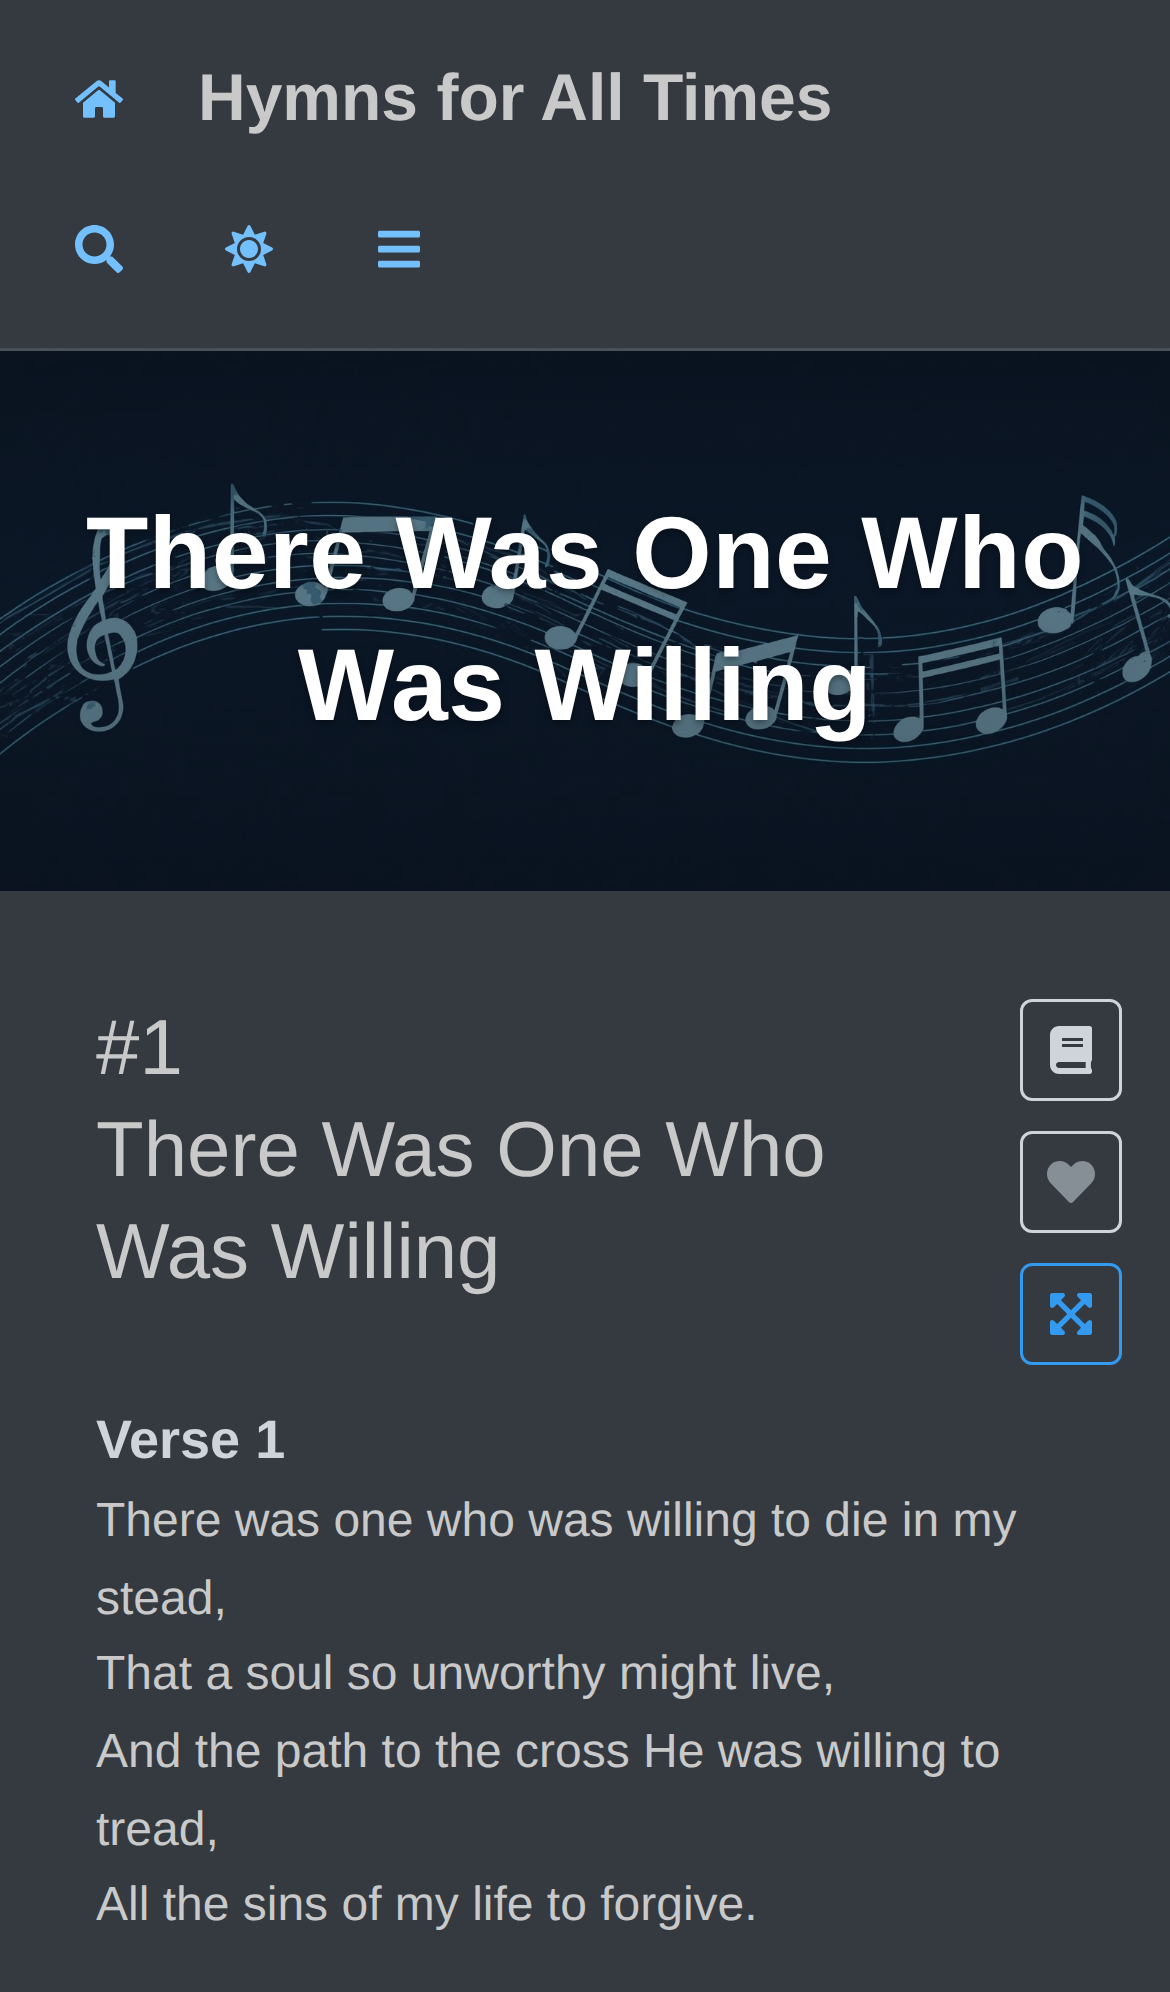
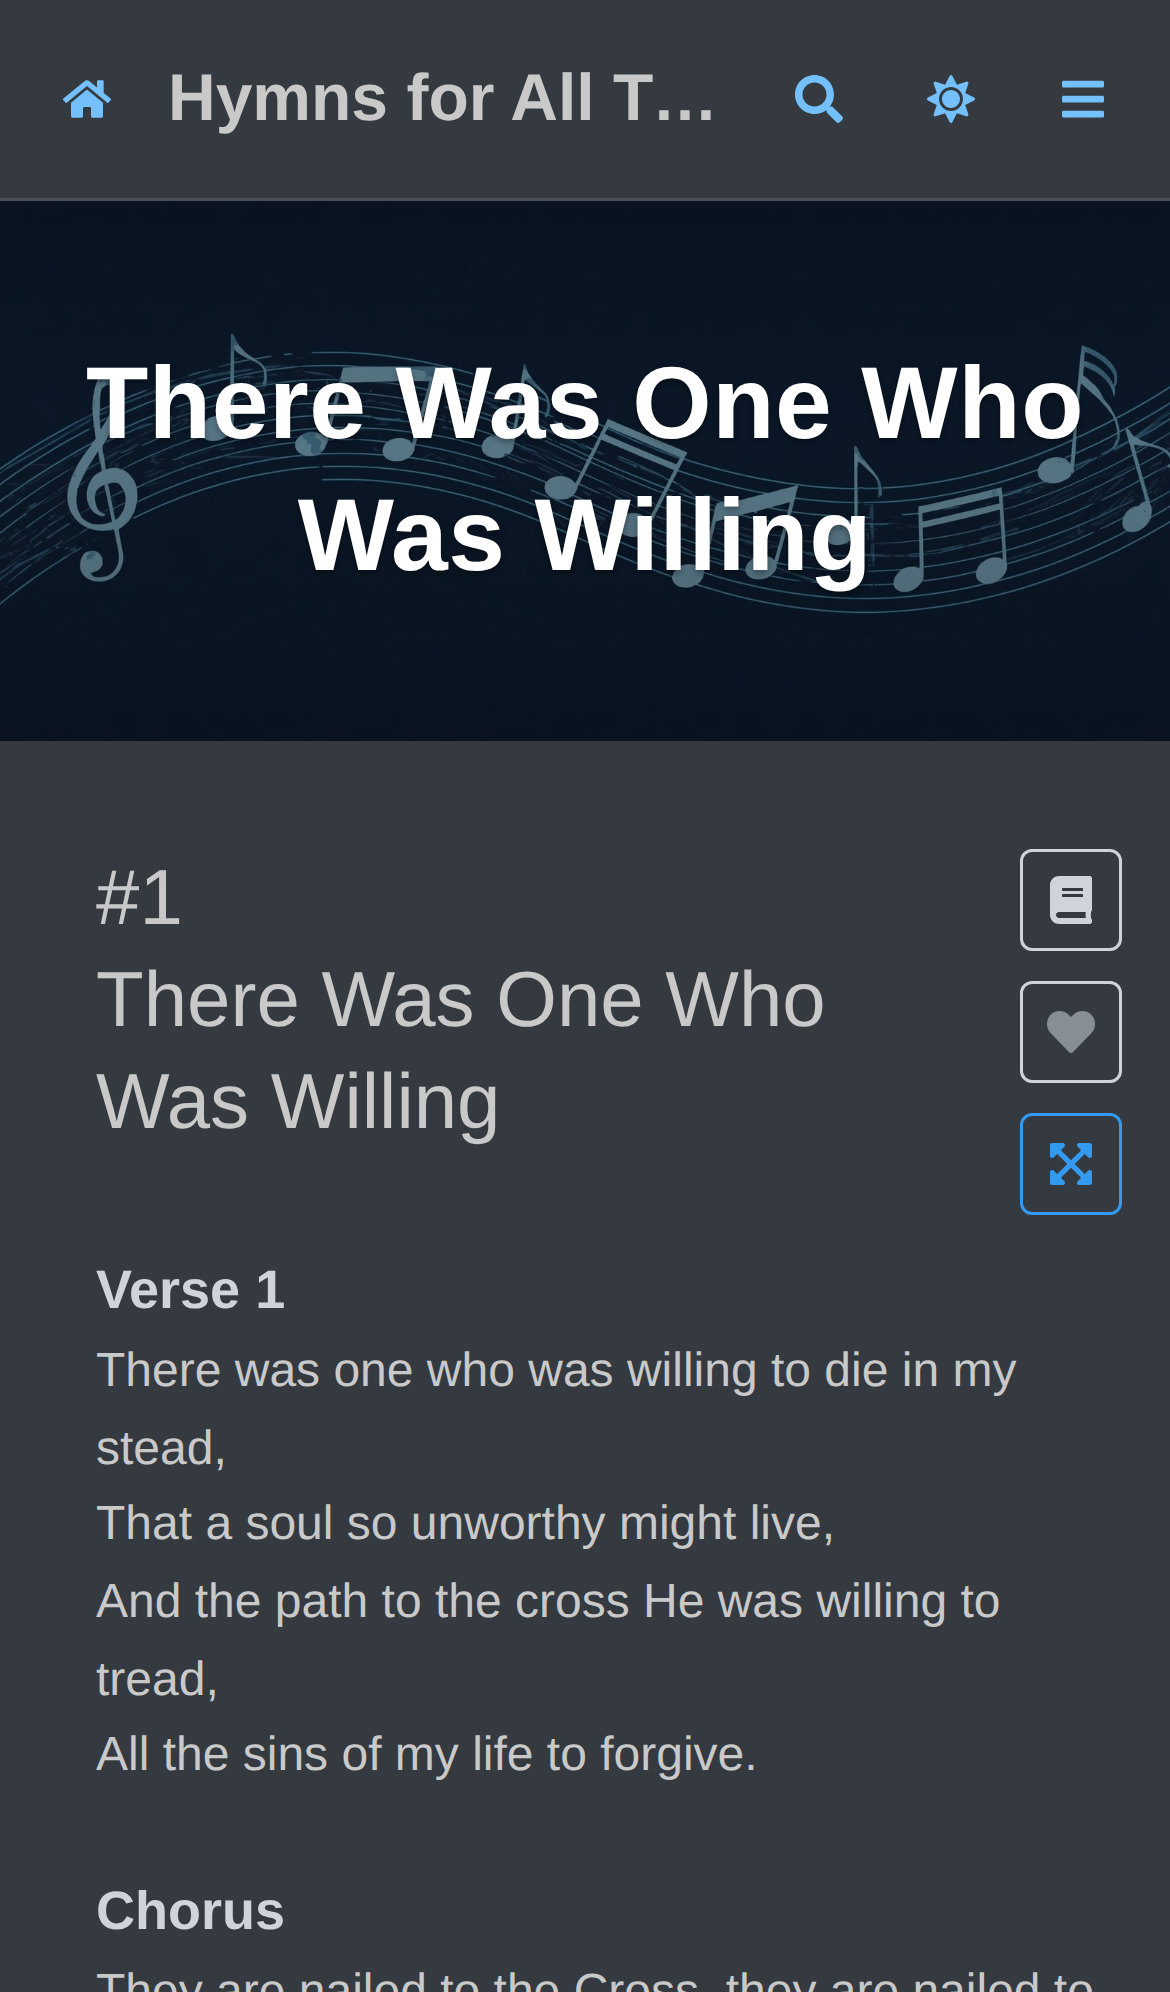
Fix mobile header navbar wrapping onto second row

diff --git a/src/components/Header/index.tsx b/src/components/Header/index.tsx
@@ -93,7 +93,9 @@ const Header = () => {
     <>
       <Group
         justify="space-between"
-        p="md"
+        wrap="nowrap"
+        px={{ base: 'sm', sm: 'md' }}
+        py="md"
         className="page-header"
         style={{
           position: 'sticky',
@@ -104,14 +106,14 @@ const Header = () => {
           borderBottom: `1px solid ${colorScheme === 'dark' ? 'var(--mantine-color-gray-7)' : 'var(--mantine-color-gray-3)'}`,
         }}
       >
-        <Group style={{ cursor: 'pointer' }} onClick={handleHomeClick}>
-          <ActionIcon variant="subtle" size="lg" aria-label="Home">
+        <Group gap="xs" wrap="nowrap" style={{ cursor: 'pointer', flex: 1, minWidth: 0 }} onClick={handleHomeClick}>
+          <ActionIcon variant="subtle" size="lg" aria-label="Home" style={{ flexShrink: 0 }}>
             <FaHome size={16} />
           </ActionIcon>
-          <Title order={3}>Hymns for All Times</Title>
+          <Title order={3} style={{ overflow: 'hidden', textOverflow: 'ellipsis', whiteSpace: 'nowrap' }}>Hymns for All Times</Title>
         </Group>
 
-        <Group>
+        <Group gap="xs" style={{ flexShrink: 0 }}>
           <ActionIcon
             variant="subtle"
             size="lg"
